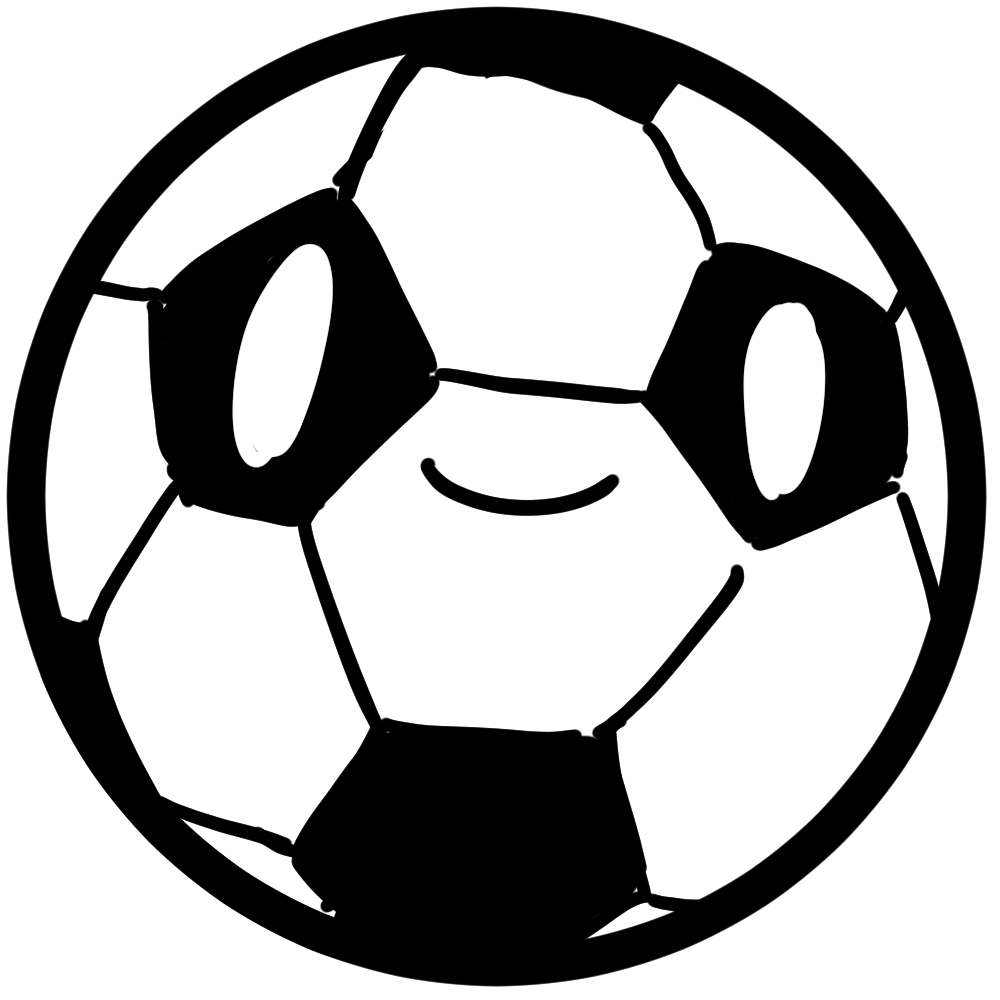
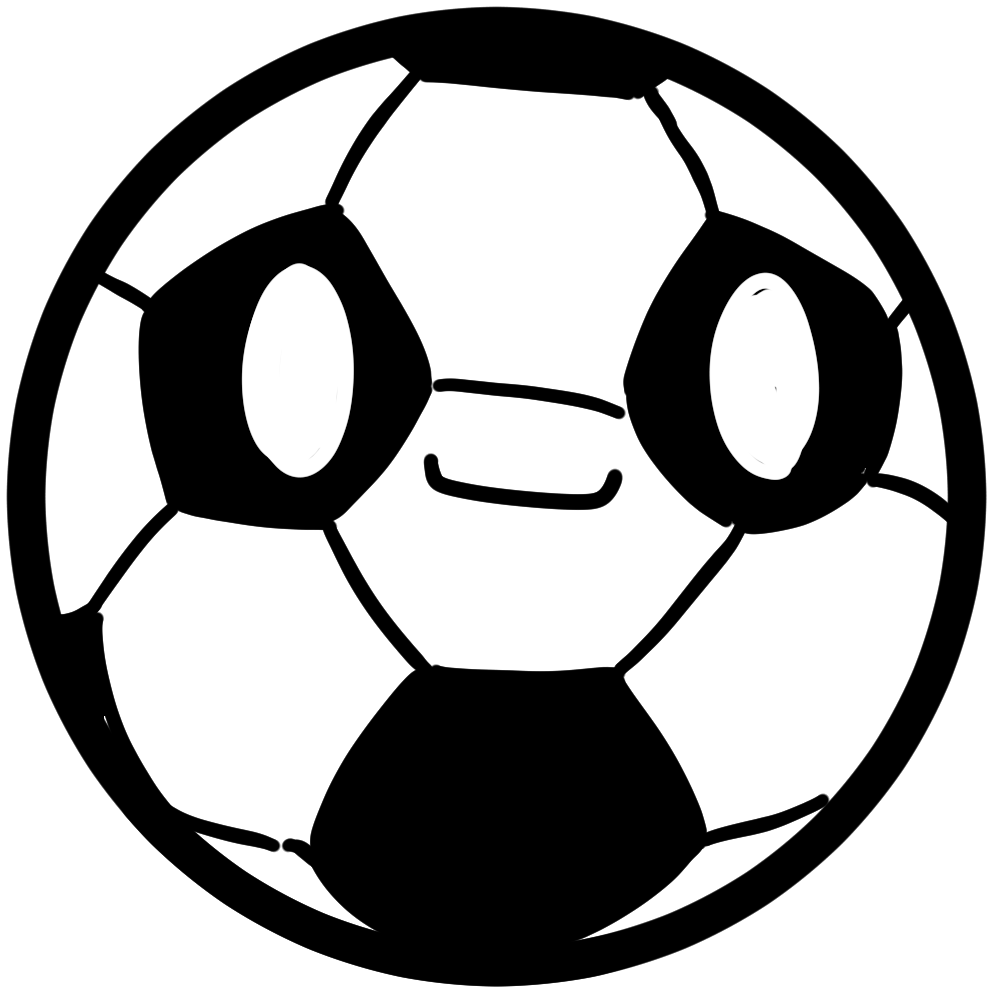
ボール変更

diff --git a/src/vertices.js b/src/vertices.js
@@ -1,1 +1,1 @@
-const eightVertices = [{"x": 57.6, "y": -180.0}, {"x": 172.8, "y": -180.0}, {"x": 14.4, "y": -172.8}, {"x": 172.8, "y": -172.8}, {"x": -7.2, "y": -165.6}, {"x": 172.8, "y": -165.6}, {"x": -28.8, "y": -158.4}, {"x": 172.8, "y": -158.4}, {"x": -43.2, "y": -151.2}, {"x": -57.6, "y": -144.0}, {"x": -72.0, "y": -136.8}, {"x": -79.2, "y": -129.6}, {"x": -86.4, "y": -122.4}, {"x": -100.8, "y": -115.2}, {"x": -108.0, "y": -108.0}, {"x": -115.2, "y": -100.8}, {"x": 172.8, "y": -100.8}, {"x": -115.2, "y": -93.6}, {"x": 172.8, "y": -93.6}, {"x": -122.4, "y": -86.4}, {"x": 172.8, "y": -86.4}, {"x": -129.6, "y": -79.2}, {"x": 172.8, "y": -79.2}, {"x": -136.8, "y": -72.0}, {"x": 172.8, "y": -72.0}, {"x": -136.8, "y": -64.8}, {"x": 172.8, "y": -64.8}, {"x": -144.0, "y": -57.6}, {"x": 172.8, "y": -57.6}, {"x": -144.0, "y": -50.4}, {"x": 172.8, "y": -50.4}, {"x": -151.2, "y": -43.2}, {"x": 172.8, "y": -43.2}, {"x": -151.2, "y": -36.0}, {"x": 165.6, "y": -36.0}, {"x": -158.4, "y": -28.8}, {"x": 165.6, "y": -28.8}, {"x": -158.4, "y": -21.6}, {"x": 165.6, "y": -21.6}, {"x": -158.4, "y": -14.4}, {"x": 165.6, "y": -14.4}, {"x": -165.6, "y": -7.2}, {"x": 158.4, "y": -7.2}, {"x": -165.6, "y": 0.0}, {"x": 158.4, "y": 0.0}, {"x": -165.6, "y": 7.2}, {"x": 158.4, "y": 7.2}, {"x": -172.8, "y": 14.4}, {"x": 151.2, "y": 14.4}, {"x": -172.8, "y": 21.6}, {"x": 151.2, "y": 21.6}, {"x": -172.8, "y": 28.8}, {"x": 151.2, "y": 28.8}, {"x": -172.8, "y": 36.0}, {"x": 144.0, "y": 36.0}, {"x": -172.8, "y": 43.2}, {"x": 144.0, "y": 43.2}, {"x": -180.0, "y": 50.4}, {"x": 136.8, "y": 50.4}, {"x": -180.0, "y": 57.6}, {"x": 129.6, "y": 57.6}, {"x": -180.0, "y": 64.8}, {"x": 129.6, "y": 64.8}, {"x": -180.0, "y": 72.0}, {"x": 122.4, "y": 72.0}, {"x": -180.0, "y": 79.2}, {"x": 115.2, "y": 79.2}, {"x": -180.0, "y": 86.4}, {"x": 108.0, "y": 86.4}, {"x": -180.0, "y": 93.6}, {"x": 108.0, "y": 93.6}, {"x": -180.0, "y": 100.8}, {"x": 100.8, "y": 100.8}, {"x": -180.0, "y": 108.0}, {"x": 86.4, "y": 108.0}, {"x": -180.0, "y": 115.2}, {"x": 79.2, "y": 115.2}, {"x": -180.0, "y": 122.4}, {"x": 72.0, "y": 122.4}, {"x": -180.0, "y": 129.6}, {"x": 57.6, "y": 129.6}, {"x": -180.0, "y": 136.8}, {"x": 43.2, "y": 136.8}, {"x": -180.0, "y": 144.0}, {"x": 28.8, "y": 144.0}, {"x": -180.0, "y": 151.2}, {"x": 14.4, "y": 151.2}, {"x": -180.0, "y": 158.4}, {"x": -7.2, "y": 158.4}, {"x": -180.0, "y": 165.6}, {"x": -43.2, "y": 165.6}, {"x": -144.0, "y": 172.8}, {"x": -108.0, "y": 172.8}];
+const eightVertices = [{"x": 56.0, "y": -175.0}, {"x": 168.0, "y": -175.0}, {"x": 14.0, "y": -168.0}, {"x": 168.0, "y": -168.0}, {"x": -7.0, "y": -161.0}, {"x": 168.0, "y": -161.0}, {"x": -28.0, "y": -154.0}, {"x": 168.0, "y": -154.0}, {"x": -42.0, "y": -147.0}, {"x": -56.0, "y": -140.0}, {"x": -70.0, "y": -133.0}, {"x": -77.0, "y": -126.0}, {"x": -84.0, "y": -119.0}, {"x": -98.0, "y": -112.0}, {"x": -105.0, "y": -105.0}, {"x": -112.0, "y": -98.0}, {"x": 168.0, "y": -98.0}, {"x": -112.0, "y": -91.0}, {"x": 168.0, "y": -91.0}, {"x": -119.0, "y": -84.0}, {"x": 168.0, "y": -84.0}, {"x": -126.0, "y": -77.0}, {"x": 168.0, "y": -77.0}, {"x": -133.0, "y": -70.0}, {"x": 168.0, "y": -70.0}, {"x": -133.0, "y": -63.0}, {"x": 168.0, "y": -63.0}, {"x": -140.0, "y": -56.0}, {"x": 168.0, "y": -56.0}, {"x": -140.0, "y": -49.0}, {"x": 168.0, "y": -49.0}, {"x": -147.0, "y": -42.0}, {"x": 168.0, "y": -42.0}, {"x": -147.0, "y": -35.0}, {"x": 161.0, "y": -35.0}, {"x": -154.0, "y": -28.0}, {"x": 161.0, "y": -28.0}, {"x": -154.0, "y": -21.0}, {"x": 161.0, "y": -21.0}, {"x": -154.0, "y": -14.0}, {"x": 161.0, "y": -14.0}, {"x": -161.0, "y": -7.0}, {"x": 154.0, "y": -7.0}, {"x": -161.0, "y": 0.0}, {"x": 154.0, "y": 0.0}, {"x": -161.0, "y": 7.0}, {"x": 154.0, "y": 7.0}, {"x": -168.0, "y": 14.0}, {"x": 147.0, "y": 14.0}, {"x": -168.0, "y": 21.0}, {"x": 147.0, "y": 21.0}, {"x": -168.0, "y": 28.0}, {"x": 147.0, "y": 28.0}, {"x": -168.0, "y": 35.0}, {"x": 140.0, "y": 35.0}, {"x": -168.0, "y": 42.0}, {"x": 140.0, "y": 42.0}, {"x": -175.0, "y": 49.0}, {"x": 133.0, "y": 49.0}, {"x": -175.0, "y": 56.0}, {"x": 126.0, "y": 56.0}, {"x": -175.0, "y": 63.0}, {"x": 126.0, "y": 63.0}, {"x": -175.0, "y": 70.0}, {"x": 119.0, "y": 70.0}, {"x": -175.0, "y": 77.0}, {"x": 112.0, "y": 77.0}, {"x": -175.0, "y": 84.0}, {"x": 105.0, "y": 84.0}, {"x": -175.0, "y": 91.0}, {"x": 105.0, "y": 91.0}, {"x": -175.0, "y": 98.0}, {"x": 98.0, "y": 98.0}, {"x": -175.0, "y": 105.0}, {"x": 84.0, "y": 105.0}, {"x": -175.0, "y": 112.0}, {"x": 77.0, "y": 112.0}, {"x": -175.0, "y": 119.0}, {"x": 70.0, "y": 119.0}, {"x": -175.0, "y": 126.0}, {"x": 56.0, "y": 126.0}, {"x": -175.0, "y": 133.0}, {"x": 42.0, "y": 133.0}, {"x": -175.0, "y": 140.0}, {"x": 28.0, "y": 140.0}, {"x": -175.0, "y": 147.0}, {"x": 14.0, "y": 147.0}, {"x": -175.0, "y": 154.0}, {"x": -7.0, "y": 154.0}, {"x": -175.0, "y": 161.0}, {"x": -42.0, "y": 161.0}, {"x": -140.0, "y": 168.0}, {"x": -105.0, "y": 168.0}];

diff --git a/src/game.js b/src/game.js
@@ -9,10 +9,9 @@ const Events = Matter.Events;
 
 // 定数設定
 const bubbleImage = new Image(); bubbleImage.src = "./img/bubble.png";
-const BallImages = []; for (let i = 1; i <= 15; i++) { const tmpImage = new Image(); tmpImage.src = `./img/balls/${i}.png`; BallImages.push(tmpImage) };
 const CraneImage = new Image(); CraneImage.src = "./img/crane.png";
 const OpenCraneImage = new Image(); OpenCraneImage.src = "./img/openCrane.png";
-const BallSize = [75, 100, 140, 160, 200, 250, 295, 360, 400, 500, 600, 75, 100, 140, 160]; for (let i = 0; i < BallSize.length; i++) BallSize[i] -= 10;
+const BallSize = [65, 90, 130, 150, 190, 240, 285, 350, 390, 490, 590, 65, 90, 130, 150];
 const BallScore = [0, 1, 3, 6, 10, 15, 21, 28, 36, 45, 55, 66, 78, 91, 105, 120];
 const GameData = { "score": 0, "ball": 1, "next": 1 };
 const Placeholder = { x: 540, ball: undefined };
@@ -34,8 +33,12 @@ const render = Render.create({
 });
 
 // Preload
-for (let i = 0; i < BallImages.length; i++) {
-    render.textures[BallImages[i].src] = BallImages[i];
+const BallImages = [];
+for (let i = 1; i <= BallSize.length; i++) {
+    const tmpImage = new Image();
+    tmpImage.src = `./img/balls/${i}.png`;
+    BallImages.push(tmpImage)
+    render.textures[`./img/balls/${i}.png`] = tmpImage;
 }
 
 // 描画開始

diff --git a/_makeVertices/make.py b/_makeVertices/make.py
@@ -3,6 +3,7 @@ import numpy as np
 import json
 
 fileName = "_makeVertices/shape.png"
+size = 350
 
 image = np.array(Image.open(fileName))
 
@@ -20,8 +21,8 @@ for y in range(len(imageArray)):
         if imageArray[y][x] != previous:
             previous = imageArray[y][x]
             vertices.append({
-                "x": (x-25) * 180 / 25,
-                "y": (y-25) * 180 / 25,
+                "x": (x-25) * size / 50,
+                "y": (y-25) * size / 50,
             })
 
 with open("src/vertices.js", "w") as f:
